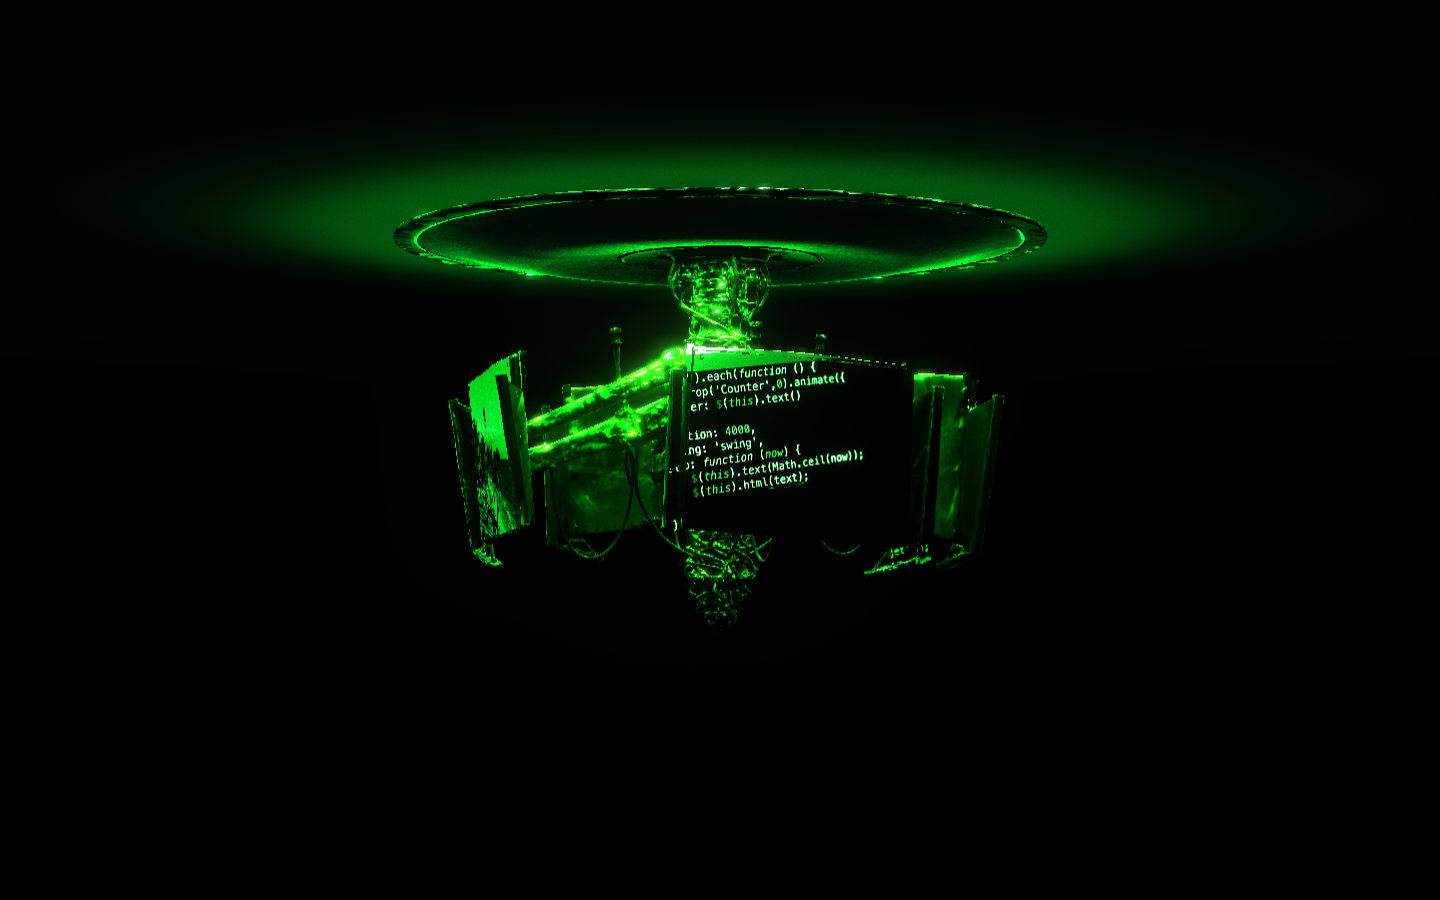
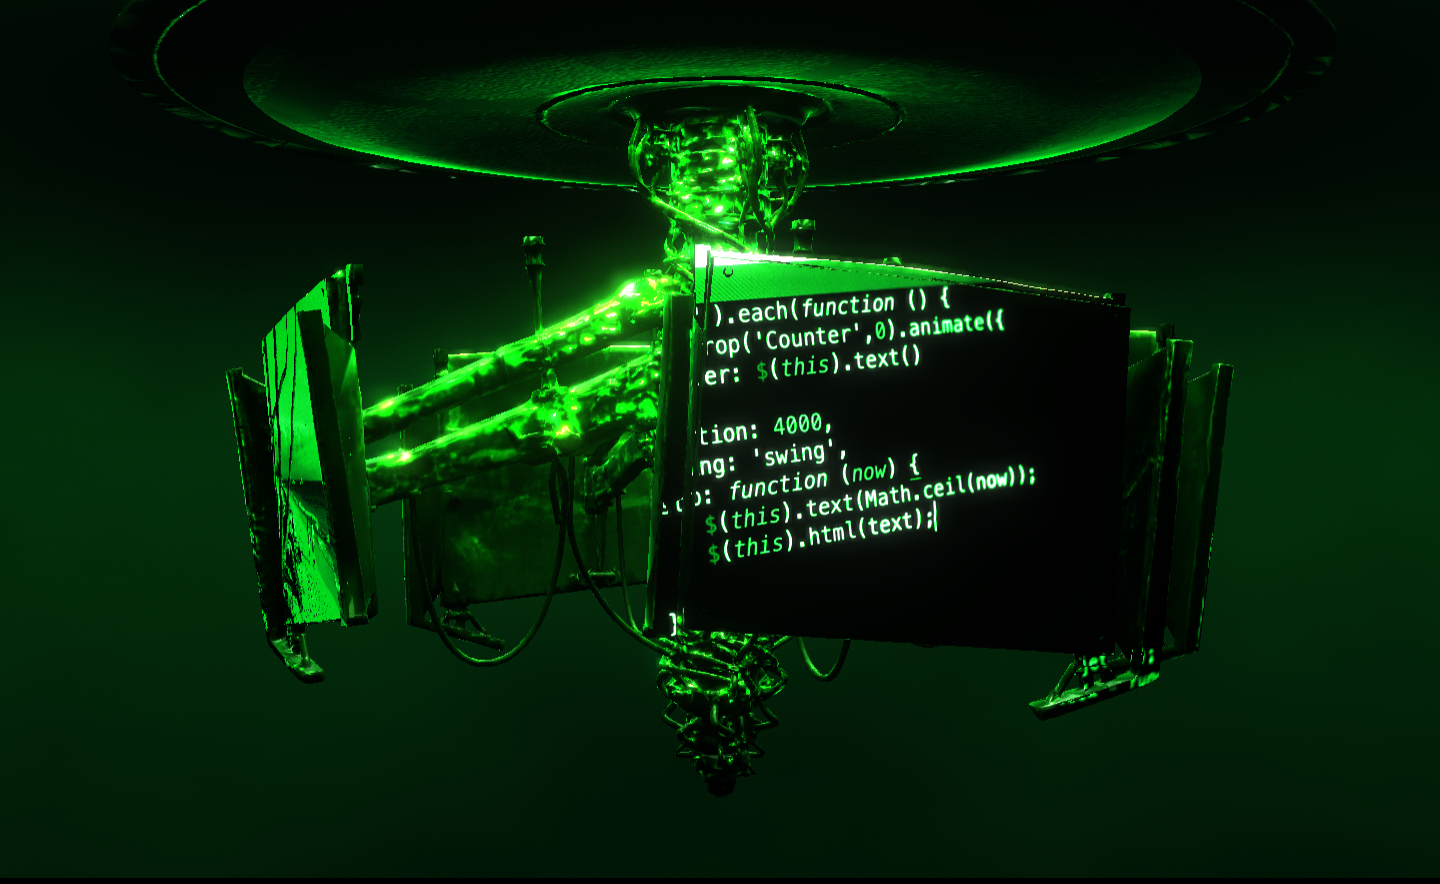
Fill the frame, add atmosphere, make the ceiling a dome
Matched to the client reference render.

RIG_TARGET_DIAG 2.0 -> 3.6 so the machine fills the frame. Safe to change now
that the screens are geometry cut from the mesh and ORBIT_Y derives from the
loaded model -- screens, ceiling alignment and orbit centre all follow the
constant. Verified at three orbit azimuths, nothing clips.

Atmosphere: scene.fog only tints geometry, never empty space, so FogExp2 alone
on a black background does nothing to the frame. Two pieces -- FogExp2 0.115
for depth across the machine, plus a backdrop shell (inside-out sphere, fbm-
broken vertical gradient, soft core glow) for the haze to actually land on.
Screens take fog:false so hazing does not eat the on-screen text contrast.

Ceiling is a shallow spherical cap instead of a flat disc: seen from underneath
a plane collapses to a hard straight edge across the frame. The cap's pole sits
at CEILING_Y so the shaft still meets it flush and the gap assertion holds.

diff --git a/js/hero.js b/js/hero.js
@@ -31,10 +31,12 @@ const AMBIENT = 0x405a4a;         /* cool green-grey (was 0x404060)    */
    RIG_TARGET_DIAG; RIG_Y_STRETCH is deliberately 1.0 — the 1.2 that used to
    live here was tuned for the procedural box mast and visibly distorts a real
    asset. */
-const RIG_TARGET_DIAG = 2.0;    /* world-space diagonal the model is scaled to */
+const RIG_TARGET_DIAG = 3.6;    /* world-space diagonal the model is scaled to */
 const RIG_Y_STRETCH   = 1.0;    /* was 1.2 — a box-rig hack, never for a real asset */
 const CEILING_Y       = 0.62;   /* mount plane: the model's bbox top lands exactly here */
-const CEILING_R       = 6.0;    /* wide enough to fill the top of frame as a real ceiling */
+const CEILING_R       = 7.0;    /* dome radius; wide enough to fill the top of frame */
+const CEILING_ARC     = 0.42;   /* radians of the dome cap — how far it curves away */
+const FOG_DENSITY     = 0.115;  /* FogExp2; depth separation without hiding the rig */
 /* The orbit target is lifted to the machine's own centre and the camera is set
    a little BELOW it, so the shot looks slightly upward and the ceiling is seen
    from underneath — the only way the mount reads as a mount. Both are derived
@@ -140,6 +142,56 @@ const ENV_INTENSITY = 15.0;
   key.geometry.dispose(); key.material.dispose();
 }
 
+/* ------------------------------------------------------- ATMOSPHERE
+   Fog gives the rig depth — the far arms sink back instead of reading as one
+   flat cutout. But fog only tints geometry, never empty space, so on a black
+   background it would do nothing to the frame. The backdrop shell is what the
+   fog colour actually lands on: a big inside-out sphere carrying a vertical
+   gradient broken up by fbm noise, so the emptiness behind the machine has
+   some drift in it rather than being a flat black card.
+   ShaderMaterial ignores scene.fog by default, which is what we want here —
+   the backdrop *is* the haze, it should not be fogged on top of itself. */
+const NOISE_GLSL = `
+  float h21(vec2 p){ return fract(sin(dot(p, vec2(127.1, 311.7))) * 43758.5453); }
+  float vnoise(vec2 p){
+    vec2 i = floor(p), f = fract(p);
+    vec2 u = f * f * (3.0 - 2.0 * f);
+    return mix(mix(h21(i), h21(i + vec2(1,0)), u.x),
+               mix(h21(i + vec2(0,1)), h21(i + vec2(1,1)), u.x), u.y);
+  }
+  float fbm(vec2 p){
+    float v = 0.0, a = 0.5;
+    for (int i = 0; i < 5; i++) { v += a * vnoise(p); p *= 2.02; a *= 0.5; }
+    return v;
+  }`;
+
+scene.fog = new THREE.FogExp2(0x04160c, FOG_DENSITY);
+{
+  const backdrop = new THREE.Mesh(
+    new THREE.SphereGeometry(22, 32, 24),
+    new THREE.ShaderMaterial({
+      side: THREE.BackSide, depthWrite: false,
+      uniforms: { uDeep: { value: new THREE.Color(0x03100a) },
+                  uHaze: { value: new THREE.Color(0x2fbf63) } },
+      vertexShader: `varying vec3 vP;
+        void main(){ vP = normalize(position); gl_Position = projectionMatrix * modelViewMatrix * vec4(position,1.0); }`,
+      fragmentShader: `uniform vec3 uDeep; uniform vec3 uHaze; varying vec3 vP;
+        ${NOISE_GLSL}
+        void main(){
+          float band = smoothstep(-0.85, 0.85, vP.y);            /* haze gathers upward */
+          float drift = fbm(vec2(atan(vP.z, vP.x) * 1.6, vP.y * 2.4) * 2.2);
+          /* a soft bloom of light behind the machine, so it sits IN the haze
+             rather than in front of a flat wall of it */
+          float core = pow(1.0 - clamp(abs(vP.y) * 1.35, 0.0, 1.0), 2.0);
+          float a = band * (0.30 + 0.70 * drift) + core * 0.34 * (0.5 + 0.5 * drift);
+          gl_FragColor = vec4(mix(uDeep, uHaze, clamp(a, 0.0, 1.0) * 0.55), 1.0);
+        }`
+    })
+  );
+  backdrop.renderOrder = -2;
+  scene.add(backdrop);
+}
+
 /* ------------------------------------------------------------- CEILING
    The rig hangs from this like a ceiling fan: the model's bbox top is placed
    exactly at CEILING_Y, and the plane sits in world space (not under `rig`),
@@ -147,40 +199,46 @@ const ENV_INTENSITY = 15.0;
    the environment — the spot is above it — which is what makes it read as a
    dark slab the machine is bolted to rather than another glowing surface. */
 {
-  /* Shaded by hand rather than lit: every light sits above this plane, so a lit
-     material would leave the underside pure black and the mount would read as
-     nothing. Instead a dark disc that fades out before its own rim (no hard
-     edge in frame) with an accent pool around the mount point.
+  /* Shaded by hand rather than lit: every light sits above this surface, so a
+     lit material would leave the underside pure black and the mount would read
+     as nothing. Instead the ceiling is drawn: a dark slab, an accent pool where
+     the fixture spills light onto it, a rim halo at the disc's edge, and fbm
+     mottling so it reads as a real surface rather than a gradient.
 
-     Bounded, not infinite, and deliberately so. The idle camera sits at eye
-     height 0.762 looking at the origin with a 28.5 deg FOV, which leaves only
-     ~1.5 deg of frame above eye level: an infinite ceiling plane at any height
-     the machine can also fit under is either backfaced (invisible) or, seen
-     from above, floods the lower frame like a floor. A disc reads as the plate
-     the machine is bolted to without either failure. See DECISIONS.md — the
-     real fix is raising the orbit target, which needs sign-off. */
+     It is a shallow spherical cap, not a flat plane. Seen from underneath a
+     flat plane collapses to a hard straight edge across the frame; a dome
+     curves away at the sides and reads as something the room actually has. The
+     cap's pole sits exactly at CEILING_Y, which is where the model's bbox top
+     is placed, so the shaft meets it flush. */
   const ceiling = new THREE.Mesh(
-    new THREE.CircleGeometry(CEILING_R, 64),
+    new THREE.SphereGeometry(CEILING_R, 64, 24, 0, Math.PI * 2, 0, CEILING_ARC),
     new THREE.ShaderMaterial({
-      side: THREE.DoubleSide, transparent: true, depthWrite: false,
-      uniforms: { uCol: { value: new THREE.Color(ACCENT) }, uBase: { value: new THREE.Color(0x0e1b13) } },
-      vertexShader: `varying vec2 vUv;
-        void main(){ vUv = uv; gl_Position = projectionMatrix * modelViewMatrix * vec4(position,1.0); }`,
-      fragmentShader: `uniform vec3 uCol; uniform vec3 uBase; varying vec2 vUv;
+      side: THREE.DoubleSide, transparent: true, depthWrite: false, fog: false,
+      uniforms: { uCol: { value: new THREE.Color(ACCENT) },
+                  uBase: { value: new THREE.Color(0x0e1b13) },
+                  uArc: { value: CEILING_ARC } },
+      vertexShader: `varying float vT; varying vec3 vL;
         void main(){
-          float d = length(vUv - 0.5) * 2.0;              /* 0 at the mount, 1 at the rim */
-          /* light spilling off the fixture onto the ceiling it is bolted to —
-             this is what actually sells the join, more than the slab does */
-          float pool = 1.0 - smoothstep(0.0, 0.24, d);
-          float halo = 1.0 - smoothstep(0.0, 0.055, abs(d - 0.115));  /* rim right at the disc edge */
-          float slab = 1.0 - smoothstep(0.26, 0.92, d);   /* slab fades before its own edge */
-          vec3 col = uBase + uCol * (0.30 * pool + 0.22 * halo);
-          gl_FragColor = vec4(col, clamp(slab * 0.85 + pool * 0.7 + halo * 0.5, 0.0, 1.0));
+          vL = position;
+          vT = acos(clamp(normalize(position).y, -1.0, 1.0));   /* polar angle from the pole */
+          gl_Position = projectionMatrix * modelViewMatrix * vec4(position,1.0);
+        }`,
+      fragmentShader: `uniform vec3 uCol; uniform vec3 uBase; uniform float uArc;
+        varying float vT; varying vec3 vL;
+        ${NOISE_GLSL}
+        void main(){
+          float d = clamp(vT / uArc, 0.0, 1.0);            /* 0 at the mount, 1 at the rim */
+          float pool = 1.0 - smoothstep(0.0, 0.34, d);     /* spill from the fixture */
+          float halo = 1.0 - smoothstep(0.0, 0.07, abs(d - 0.16));  /* rim at the disc edge */
+          float slab = 1.0 - smoothstep(0.34, 0.98, d);
+          float grain = 0.55 + 0.45 * fbm(vec2(atan(vL.z, vL.x) * 3.0, d * 7.0) * 2.6);
+          vec3 col = uBase + uCol * (0.42 * pool + 0.30 * halo) * grain;
+          gl_FragColor = vec4(col, clamp(slab * 0.9 + pool * 0.75 + halo * 0.6, 0.0, 1.0));
         }`
     })
   );
-  ceiling.rotation.x = Math.PI / 2;   /* face down, toward the camera */
-  ceiling.position.y = CEILING_Y;
+  /* sphere centre dropped by the radius so the cap's pole lands on CEILING_Y */
+  ceiling.position.y = CEILING_Y - CEILING_R;
   ceiling.renderOrder = -1;
   scene.add(ceiling);
 }
@@ -219,7 +277,9 @@ const GREEN_RAMP = `
    to 0 for raw footage colour. */
 const uGrade = { value: ASSETS.screenGrade ?? 1 };
 function screenMaterial(tex) {
-  const m = new THREE.MeshBasicMaterial({ map: tex, side: THREE.DoubleSide, toneMapped: false });
+  /* fog:false — the screens are emissive panels, and hazing them would eat the
+     contrast that makes the on-screen text readable */
+  const m = new THREE.MeshBasicMaterial({ map: tex, side: THREE.DoubleSide, toneMapped: false, fog: false });
   m.onBeforeCompile = shader => {
     shader.uniforms.uGrade = uGrade;
     shader.fragmentShader = `uniform float uGrade;\n${GREEN_RAMP}\n` + shader.fragmentShader.replace(

diff --git a/DECISIONS.md b/DECISIONS.md
@@ -445,3 +445,37 @@ dolly's start pose when the promise resolved. Three fixes, all in that order:
 Verified frame by frame: at 500ms only the preloader is on screen, at 1100ms the
 canvas is fading in with the dolly already at its start, and 1900-5200ms is one
 continuous pull-back with no jump.
+
+## 7.8 · Scale, atmosphere, and the ceiling as a dome
+
+Matched against a reference render supplied by the client. Three changes.
+
+**`RIG_TARGET_DIAG` 2.0 -> 3.6.** The reference has the machine filling the
+frame; at 2.0 it sat in the middle of a lot of empty black. This is safe to
+change now precisely because 7.5 made the screens geometry cut from the mesh
+and 7.7 derives `ORBIT_Y` from the loaded model — the screens, the ceiling
+alignment and the orbit centre all follow the constant instead of having to be
+retuned behind it. Checked at three orbit azimuths: nothing clips.
+
+**Fog needed something to land on.** `scene.fog` only tints geometry, never
+empty space, so `FogExp2` alone on a black background does nothing to the frame
+— it would haze the rig and leave the emptiness behind it flat. So there are
+two pieces: `FogExp2` at 0.115 for depth separation across the machine (the far
+arms sink back instead of reading as one flat cutout), plus a backdrop shell —
+a 22-unit inside-out sphere carrying a vertical gradient broken up by fbm noise,
+with a soft core glow so the machine sits *in* the haze rather than in front of
+a wall of it. The backdrop is a `ShaderMaterial`, which ignores `scene.fog` by
+default: it *is* the haze and must not be fogged on top of itself.
+
+The screen material takes `fog: false`. The screens are emissive panels, and
+hazing them eats exactly the contrast that makes the on-screen text readable —
+which 7.6 had just spent the effort to win.
+
+**The ceiling is a spherical cap now, not a flat disc.** Seen from underneath a
+flat plane collapses to a hard straight edge ruled across the frame. A shallow
+dome curves away at the sides and reads as something the room actually has.
+`CEILING_ARC` (0.42 rad) sets how far it wraps; the cap's pole sits exactly at
+`CEILING_Y`, which is where the model's bbox top is pinned, so the shaft still
+meets it flush and the 7.7 assertion still holds. The shader gained fbm
+mottling on top of the pool and rim halo, so the surface reads as material
+rather than as a gradient.

diff --git a/README.md b/README.md
@@ -45,6 +45,11 @@ which lives under `rig`. The model's bounding-box top is placed exactly at
 `CEILING_Y` so it hangs from the mount with no gap. Scroll drives exactly one
 value — `rig.rotation.y`. There is no scroll lift, no tilt, no mouse parallax.
 
+**Atmosphere.** `FogExp2` gives the rig depth, but fog only tints geometry — so
+a backdrop shell (an inside-out sphere with an fbm-broken gradient) is what the
+haze actually lands on, and the ceiling is a shallow spherical cap rather than a
+flat plane, because seen from below a plane collapses to a hard straight edge.
+
 **One accent hue.** Black stage, green as the only emotional colour. A single
 `GREEN_RAMP` (black → `#02160b` → `#0a3d1f` → `#148f43` → `#19e65a` → `#8affb0`
 → `#eafff2`) grades the screen footage, so arbitrary stock clips never drop a
